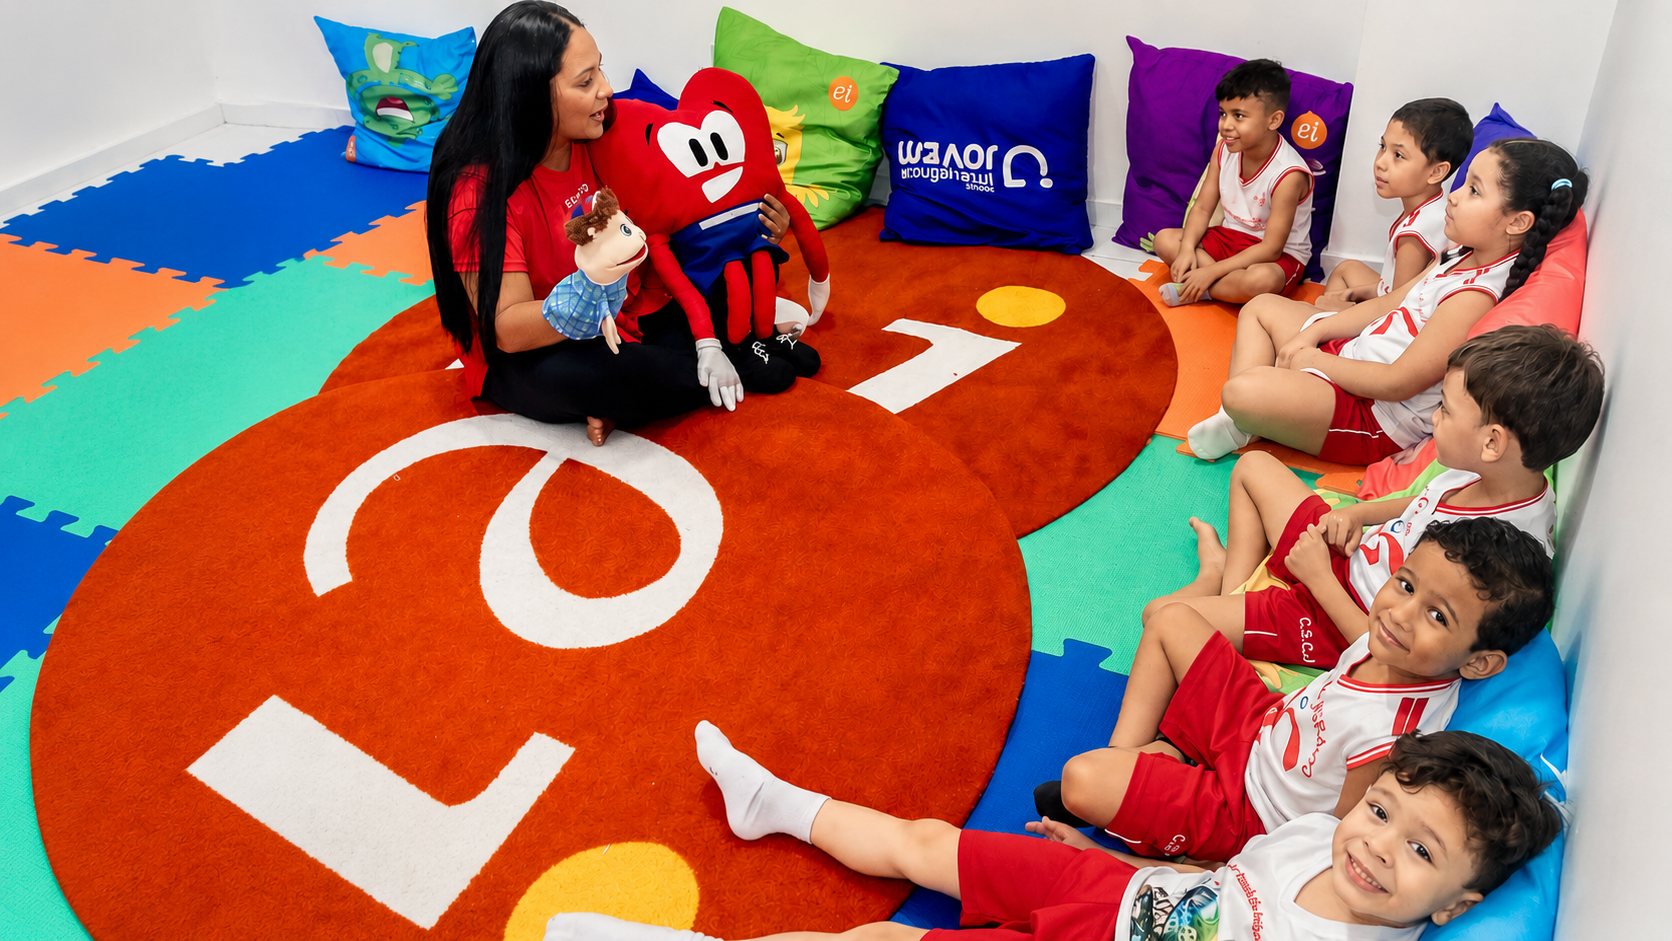
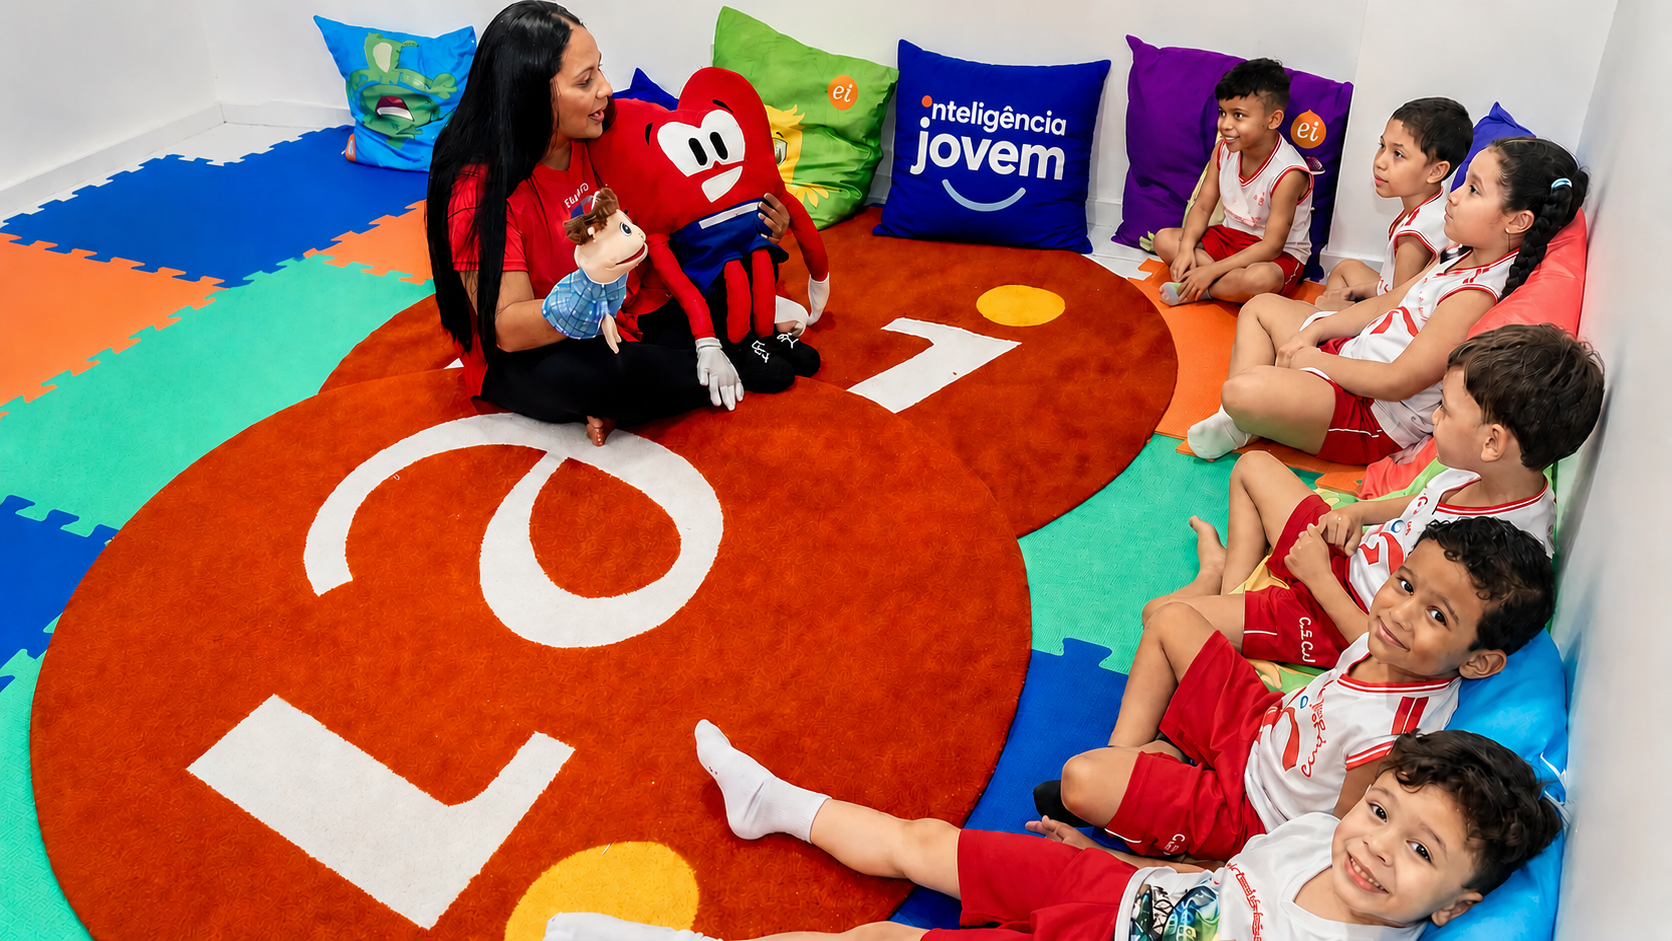
feat: refina copy, ícones e imagens da landing page institucional

diff --git a/src/components/ValueSpotlight.tsx b/src/components/ValueSpotlight.tsx
@@ -2,8 +2,8 @@ import { useState, useEffect, useRef, useCallback } from 'react';
 
 const values = [
   { label: 'Valores Cristãos', id: 'valores' },
-  { label: 'Excelência Acadêmica', id: 'excelencia' },
   { label: 'Formação Humana', id: 'formacao' },
+  { label: 'Excelência Acadêmica', id: 'excelencia' },
   { label: 'Preparação para o Futuro', id: 'futuro' },
 ];
 
@@ -87,7 +87,7 @@ export default function ValueSpotlight() {
         ref={containerRef}
         role='list'
         aria-label='Pilares institucionais: Valores Cristãos, Excelência Acadêmica, Formação Humana, Preparação para o Futuro'
-        className='relative flex flex-wrap gap-x-6 gap-y-2'
+        className='relative grid grid-cols-2 gap-x-6 gap-y-2'
       >
         {values.map((value, index) => (
           <li
